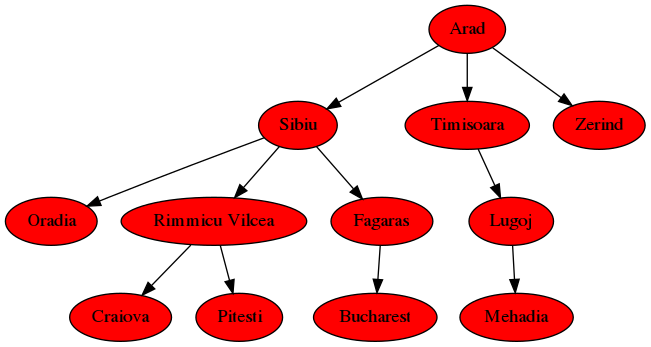
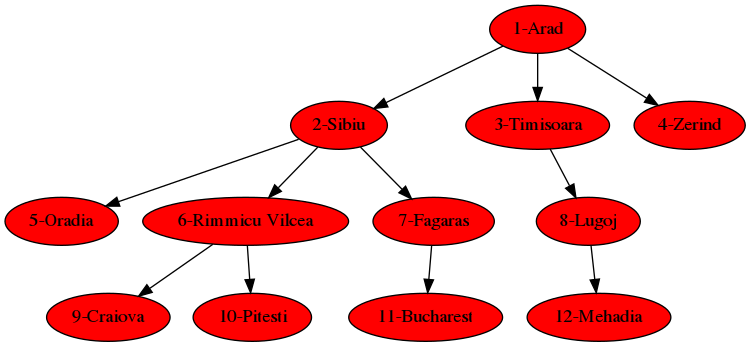
state space tree printed

diff --git a/generate_state_space_tree.py b/generate_state_space_tree.py
@@ -5,18 +5,18 @@ import matplotlib.pyplot as plt
 
 def generate_tree(n1, n2, n3, n4, n5, n6, n7, n8, n9, n10, n11, n12):
     graph = pydot.Dot(graph_type='digraph')
-    node1 = pydot.Node(n1.city_name, style="filled", fillcolor="red")
-    node2 = pydot.Node(n2.city_name, style="filled", fillcolor="red")
-    node3 = pydot.Node(n3.city_name, style="filled", fillcolor="red")
-    node4 = pydot.Node(n4.city_name, style="filled", fillcolor="red")
-    node5 = pydot.Node(n5.city_name, style="filled", fillcolor="red")
-    node6 = pydot.Node(n6.city_name, style="filled", fillcolor="red")
-    node7 = pydot.Node(n7.city_name, style="filled", fillcolor="red")
-    node8 = pydot.Node(n8.city_name, style="filled", fillcolor="red")
-    node9 = pydot.Node(n9.city_name, style="filled", fillcolor="red")
-    node10 = pydot.Node(n10.city_name, style="filled", fillcolor="red")
-    node11 = pydot.Node(n11.city_name, style="filled", fillcolor="red")
-    node12 = pydot.Node(n12.city_name, style="filled", fillcolor="red")
+    node1 = pydot.Node(str(n1), style="filled", fillcolor="red")
+    node2 = pydot.Node(str(n2), style="filled", fillcolor="red")
+    node3 = pydot.Node(str(n3), style="filled", fillcolor="red")
+    node4 = pydot.Node(str(n4), style="filled", fillcolor="red")
+    node5 = pydot.Node(str(n5), style="filled", fillcolor="red")
+    node6 = pydot.Node(str(n6), style="filled", fillcolor="red")
+    node7 = pydot.Node(str(n7), style="filled", fillcolor="red")
+    node8 = pydot.Node(str(n8), style="filled", fillcolor="red")
+    node9 = pydot.Node(str(n9), style="filled", fillcolor="red")
+    node10 = pydot.Node(str(n10), style="filled", fillcolor="red")
+    node11 = pydot.Node(str(n11), style="filled", fillcolor="red")
+    node12 = pydot.Node(str(n12), style="filled", fillcolor="red")
 
     graph.add_node(node1)
     graph.add_node(node2)

diff --git a/dfs_search.py b/dfs_search.py
@@ -9,7 +9,8 @@ def dfs(root: 'uninformed_search.Node', goal_state: str, sequence: list):
         for child_nodes in root.child:
             if child_nodes.id not in sequence:
                 root = child_nodes
-                dfs(root, goal_state, sequence)
+                if dfs(root, goal_state, sequence):
+                    return True
     else:
         print("Sequence of nodes visited")
         print(", ".join([str(nodes) for nodes in sequence]))
@@ -19,7 +20,7 @@ def dfs(root: 'uninformed_search.Node', goal_state: str, sequence: list):
             root = root.parent
             path.insert(0, root.city_name)
         print(' --> '.join(path))
-        exit(0)
+        return True
 
 
 def dfs_main(root: 'uninformed_search.Node', goal_state: str):

diff --git a/uninformed_search.py b/uninformed_search.py
@@ -24,8 +24,12 @@ class Node:
         # have id 1, n2 will have id 2
 
     def __repr__(self):
+        # return str(self.id)+self.city_name
         child_names = [x.city_name for x in self.child]
         return "City Name: {}, Parent: {}, Child: {}".format(self.city_name, self.parent, child_names)
+
+    def __str__(self):
+        return str(self.id)+'-'+self.city_name
 
     def append_child(self, children):
         for child in children:
